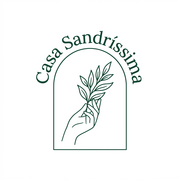
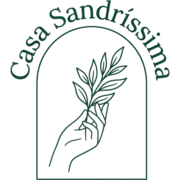
style: update branding assets and add navigation
Updated favicon and touch icons to reflect current branding.
Included MobileBottomNav component in the main application structure.

Changed region(s): [[0.0556, 0.0, 0.9444, 1.0]]

diff --git a/src/components/HomeView.tsx b/src/components/HomeView.tsx
@@ -153,32 +153,33 @@ export default function HomeView({ setActiveTab, onSelectWorkshop }: HomeViewPro
     >
       
       {/* Hero / Banner Section */}
-      <section className="relative overflow-hidden bg-white/80 backdrop-blur-md rounded-3xl p-8 md:p-16 border border-emerald-100/80 shadow-sm hover:shadow-md transition-shadow" id="hero-section">
+      <section className="relative overflow-hidden bg-white/80 backdrop-blur-md rounded-3xl p-5 sm:p-8 md:p-14 lg:p-16 border border-emerald-100/80 shadow-sm hover:shadow-md transition-shadow" id="hero-section">
         <div className="absolute inset-0 bg-[radial-gradient(ellipse_at_top_right,_var(--tw-gradient-stops))] from-emerald-100/35 via-transparent to-transparent opacity-70"></div>
         
-        <div className="relative z-10 grid grid-cols-1 lg:grid-cols-12 gap-10 lg:gap-12 xl:gap-16 items-center">
-          <div className="lg:col-span-7 space-y-6 lg:pr-4">
+        <div className="relative z-10 grid grid-cols-1 lg:grid-cols-12 gap-8 lg:gap-12 xl:gap-16 items-center">
+          <div className="lg:col-span-7 space-y-5 sm:space-y-6 lg:pr-4 text-left">
             <div className="inline-flex items-center gap-2 px-3 py-1 bg-emerald-100/60 rounded-full border border-emerald-200">
               <Sprout className="h-4 w-4 text-emerald-700 animate-pulse" />
               <span className="text-xs font-semibold text-emerald-800 tracking-wide uppercase">Seja bem-vindo</span>
             </div>
             
-            <h1 className="font-sans font-extrabold text-3xl md:text-5xl leading-tight text-stone-900 tracking-tight" id="hero-tagline">
-              Imensidão de uma <span className="text-emerald-600 border-b-2 border-emerald-200">semente</span>. <br />
+            <h1 className="font-sans font-extrabold text-2xl sm:text-4xl md:text-5xl leading-tight text-stone-900 tracking-tight" id="hero-tagline">
+              Imensidão de uma <span className="text-emerald-600 border-b-2 border-emerald-200">semente</span>. <br className="hidden sm:inline" />
               Semear dignidade, cultivar inclusão, florescer em comunidade.
             </h1>
             
-            <p className="text-stone-600 text-base md:text-lg leading-relaxed max-w-xl">
+            <p className="text-stone-600 text-sm sm:text-base md:text-lg leading-relaxed max-w-xl font-medium">
               A <strong>Casa Sandríssima</strong> é uma organização comunitária que busca melhorar a qualidade de vida de famílias em situação de risco e vulnerabilidade no bairro Jardim Ipanema em Franca - SP. Apoiamos a inclusão e transformação por meio da educação popular.
             </p>
 
-            <div className="flex flex-wrap gap-4 pt-2">
+            <div className="flex flex-col sm:flex-row flex-wrap gap-2.5 sm:gap-4 pt-2 w-full">
               <TactileButton 
                 id="hero-donate-btn"
                 variant="primary"
                 size="md"
                 onClick={() => setActiveTab('doacoes')}
                 icon={<Heart className="h-4 w-4 fill-white" />}
+                className="w-full sm:w-auto"
               >
                 Quero Apoiar a Causa
               </TactileButton>
@@ -190,6 +191,7 @@ export default function HomeView({ setActiveTab, onSelectWorkshop }: HomeViewPro
                 onClick={() => setActiveTab('projetos')}
                 icon={<ChevronRight className="h-4 w-4 text-stone-500" />}
                 iconPosition="right"
+                className="w-full sm:w-auto"
               >
                 Ver Projetos
               </TactileButton>
@@ -200,6 +202,7 @@ export default function HomeView({ setActiveTab, onSelectWorkshop }: HomeViewPro
                 size="md"
                 onClick={() => setActiveTab('galeria')}
                 icon={<ImageIcon className="h-4 w-4 text-emerald-700" />}
+                className="w-full sm:w-auto"
               >
                 Galeria de Fotos
               </TactileButton>
@@ -208,7 +211,7 @@ export default function HomeView({ setActiveTab, onSelectWorkshop }: HomeViewPro
 
           <div className="lg:col-span-5 flex flex-col items-center justify-center w-full">
             {/* Visual Centered Logo Stage with Harmonious Orbital Constellation */}
-            <div className="relative w-80 h-80 sm:w-[360px] sm:h-[360px] md:w-[390px] md:h-[390px] lg:w-[410px] lg:h-[410px] flex items-center justify-center my-4 sm:my-0 select-none" id="hero-visual-graphic">
+            <div className="relative w-64 h-64 sm:w-80 sm:h-80 md:w-[360px] md:h-[360px] lg:w-[410px] lg:h-[410px] max-w-full flex items-center justify-center my-2 sm:my-0 select-none" id="hero-visual-graphic">
               
               {/* Centered Soft Radial Halo */}
               <div className="absolute inset-2 sm:inset-3 rounded-full bg-radial from-emerald-100/75 via-emerald-50/30 to-transparent pointer-events-none" />
@@ -228,7 +231,7 @@ export default function HomeView({ setActiveTab, onSelectWorkshop }: HomeViewPro
                 referrerPolicy="no-referrer"
               />
               
-              {/* Symmetrically Distributed Orbital Course Pills (5-point harmonious constellation) */}
+              {/* Symmetrically Distributed Orbital Course Pills (Desktop/Tablet) */}
               {/* 1. Karatê Grátis - Top Center Apex (12 o'clock) */}
               <motion.button
                 id="hero-orbit-karate"
@@ -245,14 +248,14 @@ export default function HomeView({ setActiveTab, onSelectWorkshop }: HomeViewPro
                 whileHover={{ scale: 1.08, y: -7 }}
                 whileTap={{ scale: 0.95 }}
                 title="Ver detalhes da oficina de Karatê"
-                className="absolute -top-2 sm:-top-3 left-1/2 -translate-x-1/2 z-20 bg-white/95 backdrop-blur-xs py-1.5 px-3.5 sm:px-4 rounded-full shadow-md hover:shadow-orange-200/80 text-[11px] sm:text-xs font-bold text-stone-800 border border-orange-200/90 flex items-center gap-1.5 cursor-pointer transition-colors hover:border-orange-400 group whitespace-nowrap"
+                className="hidden sm:flex absolute -top-2 sm:-top-3 left-1/2 -translate-x-1/2 z-20 bg-white/95 backdrop-blur-xs py-1.5 px-3.5 sm:px-4 rounded-full shadow-md hover:shadow-orange-200/80 text-[11px] sm:text-xs font-bold text-stone-800 border border-orange-200/90 items-center gap-1.5 cursor-pointer transition-colors hover:border-orange-400 group whitespace-nowrap"
               >
                 <span className="text-xs sm:text-sm group-hover:scale-125 transition-transform">🥋</span>
                 <span>Karatê Grátis</span>
                 <span className="w-1.5 h-1.5 rounded-full bg-orange-500 animate-ping ml-0.5 hidden sm:inline-block" />
               </motion.button>
 
-              {/* 2. Inglês - Upper Right (approx. 2 o'clock) */}
+              {/* 2. Inglês - Upper Right */}
               <motion.button
                 id="hero-orbit-english"
                 onClick={() => handleOpenWorkshop('english')}
@@ -270,13 +273,13 @@ export default function HomeView({ setActiveTab, onSelectWorkshop }: HomeViewPro
                 whileHover={{ scale: 1.08, y: -7 }}
                 whileTap={{ scale: 0.95 }}
                 title="Ver detalhes do curso de Inglês"
-                className="absolute top-[20%] -right-2 sm:-right-3 md:-right-5 z-20 bg-white/95 backdrop-blur-xs py-1.5 px-3.5 sm:px-4 rounded-full shadow-md hover:shadow-blue-200/80 text-[11px] sm:text-xs font-bold text-stone-800 border border-blue-200/90 flex items-center gap-1.5 cursor-pointer transition-colors hover:border-blue-400 group whitespace-nowrap"
+                className="hidden sm:flex absolute top-[20%] -right-2 sm:-right-3 md:-right-5 z-20 bg-white/95 backdrop-blur-xs py-1.5 px-3.5 sm:px-4 rounded-full shadow-md hover:shadow-blue-200/80 text-[11px] sm:text-xs font-bold text-stone-800 border border-blue-200/90 items-center gap-1.5 cursor-pointer transition-colors hover:border-blue-400 group whitespace-nowrap"
               >
                 <span className="text-xs sm:text-sm group-hover:scale-125 transition-transform">🇬🇧</span>
                 <span>Inglês</span>
               </motion.button>
 
-              {/* 3. Costura - Upper Left (approx. 10 o'clock, mirroring Inglês) */}
+              {/* 3. Costura - Upper Left */}
               <motion.button
                 id="hero-orbit-sewing"
                 onClick={() => handleOpenWorkshop('sewing')}
@@ -294,13 +297,13 @@ export default function HomeView({ setActiveTab, onSelectWorkshop }: HomeViewPro
                 whileHover={{ scale: 1.08, y: -7 }}
                 whileTap={{ scale: 0.95 }}
                 title="Ver detalhes da oficina de Costura"
-                className="absolute top-[20%] -left-2 sm:-left-3 md:-left-5 z-20 bg-white/95 backdrop-blur-xs py-1.5 px-3.5 sm:px-4 rounded-full shadow-md hover:shadow-purple-200/80 text-[11px] sm:text-xs font-bold text-stone-800 border border-purple-200/90 flex items-center gap-1.5 cursor-pointer transition-colors hover:border-purple-400 group whitespace-nowrap"
+                className="hidden sm:flex absolute top-[20%] -left-2 sm:-left-3 md:-left-5 z-20 bg-white/95 backdrop-blur-xs py-1.5 px-3.5 sm:px-4 rounded-full shadow-md hover:shadow-purple-200/80 text-[11px] sm:text-xs font-bold text-stone-800 border border-purple-200/90 items-center gap-1.5 cursor-pointer transition-colors hover:border-purple-400 group whitespace-nowrap"
               >
                 <span className="text-xs sm:text-sm group-hover:scale-125 transition-transform">🧵</span>
                 <span>Costura</span>
               </motion.button>
 
-              {/* 4. Pilates - Lower Right (approx. 4:30 o'clock) */}
+              {/* 4. Pilates - Lower Right */}
               <motion.button
                 id="hero-orbit-pilates"
                 onClick={() => handleOpenWorkshop('pilates')}
@@ -317,13 +320,13 @@ export default function HomeView({ setActiveTab, onSelectWorkshop }: HomeViewPro
                 whileHover={{ scale: 1.08, y: -7 }}
                 whileTap={{ scale: 0.95 }}
                 title="Ver detalhes das aulas de Pilates"
-                className="absolute bottom-[10%] -right-1 sm:-right-2 md:-right-4 z-20 bg-white/95 backdrop-blur-xs py-1.5 px-3.5 sm:px-4 rounded-full shadow-md hover:shadow-teal-200/80 text-[11px] sm:text-xs font-bold text-stone-800 border border-teal-200/90 flex items-center gap-1.5 cursor-pointer transition-colors hover:border-teal-400 group whitespace-nowrap"
+                className="hidden sm:flex absolute bottom-[10%] -right-1 sm:-right-2 md:-right-4 z-20 bg-white/95 backdrop-blur-xs py-1.5 px-3.5 sm:px-4 rounded-full shadow-md hover:shadow-teal-200/80 text-[11px] sm:text-xs font-bold text-stone-800 border border-teal-200/90 items-center gap-1.5 cursor-pointer transition-colors hover:border-teal-400 group whitespace-nowrap"
               >
                 <span className="text-xs sm:text-sm group-hover:scale-125 transition-transform">🧘</span>
                 <span>Pilates</span>
               </motion.button>
 
-              {/* 5. Bordados - Lower Left (approx. 7:30 o'clock, mirroring Pilates) */}
+              {/* 5. Bordados - Lower Left */}
               <motion.button
                 id="hero-orbit-embroidery"
                 onClick={() => handleOpenWorkshop('embroidery')}
@@ -340,24 +343,52 @@ export default function HomeView({ setActiveTab, onSelectWorkshop }: HomeViewPro
                 whileHover={{ scale: 1.08, y: -7 }}
                 whileTap={{ scale: 0.95 }}
                 title="Ver detalhes da oficina de Bordados"
-                className="absolute bottom-[10%] -left-1 sm:-left-2 md:-left-4 z-20 bg-white/95 backdrop-blur-xs py-1.5 px-3.5 sm:px-4 rounded-full shadow-md hover:shadow-rose-200/80 text-[11px] sm:text-xs font-bold text-stone-800 border border-rose-200/90 flex items-center gap-1.5 cursor-pointer transition-colors hover:border-rose-400 group whitespace-nowrap"
+                className="hidden sm:flex absolute bottom-[10%] -left-1 sm:-left-2 md:-left-4 z-20 bg-white/95 backdrop-blur-xs py-1.5 px-3.5 sm:px-4 rounded-full shadow-md hover:shadow-rose-200/80 text-[11px] sm:text-xs font-bold text-stone-800 border border-rose-200/90 items-center gap-1.5 cursor-pointer transition-colors hover:border-rose-400 group whitespace-nowrap"
               >
                 <span className="text-xs sm:text-sm group-hover:scale-125 transition-transform">🪡</span>
                 <span>Bordados</span>
               </motion.button>
             </div>
 
-            {/* Mobile quick scroll pill helper */}
-            <div className="flex sm:hidden items-center justify-center gap-1.5 text-[11px] text-stone-500 font-medium mt-3 bg-stone-100/80 px-3 py-1 rounded-full">
-              <span>Toque em qualquer curso para ver a ementa</span>
-              <ChevronRight className="h-3 w-3 text-emerald-600" />
+            {/* Dedicated Mobile Workshop Quick Chips (Touch-friendly & strictly within bounds) */}
+            <div className="sm:hidden w-full space-y-2 mt-4" id="hero-mobile-workshops-selector">
+              <div className="flex items-center justify-between px-1 text-[11px] font-bold uppercase tracking-wider text-stone-500">
+                <span>Oficinas Gratuitas</span>
+                <span className="text-emerald-700">Toque para ver</span>
+              </div>
+              <div className="grid grid-cols-2 gap-2">
+                {[
+                  { id: 'karate', label: 'Karatê', emoji: '🥋', border: 'border-orange-200', bg: 'hover:bg-orange-50' },
+                  { id: 'english', label: 'Inglês', emoji: '🇬🇧', border: 'border-blue-200', bg: 'hover:bg-blue-50' },
+                  { id: 'sewing', label: 'Costura', emoji: '🧵', border: 'border-purple-200', bg: 'hover:bg-purple-50' },
+                  { id: 'pilates', label: 'Pilates', emoji: '🧘', border: 'border-teal-200', bg: 'hover:bg-teal-50' },
+                ].map((item) => (
+                  <button
+                    key={item.id}
+                    type="button"
+                    onClick={() => handleOpenWorkshop(item.id)}
+                    className={`flex items-center justify-center gap-2 py-2.5 px-3 bg-white border ${item.border} ${item.bg} rounded-xl shadow-xs text-xs font-bold text-stone-800 active:scale-95 transition-all cursor-pointer`}
+                  >
+                    <span>{item.emoji}</span>
+                    <span>{item.label}</span>
+                  </button>
+                ))}
+                <button
+                  type="button"
+                  onClick={() => handleOpenWorkshop('embroidery')}
+                  className="col-span-2 flex items-center justify-center gap-2 py-2.5 px-3 bg-white border border-rose-200 hover:bg-rose-50 rounded-xl shadow-xs text-xs font-bold text-stone-800 active:scale-95 transition-all cursor-pointer"
+                >
+                  <span>🪡</span>
+                  <span>Bordados Livres & Arteterapia</span>
+                </button>
+              </div>
             </div>
           </div>
         </div>
       </section>
 
       {/* Metrics Section */}
-      <section className="bg-stone-900 rounded-3xl p-8 text-white grid grid-cols-1 md:grid-cols-3 gap-6 text-center border border-stone-850" id="impact-metrics">
+      <section className="bg-stone-900 rounded-3xl p-6 sm:p-8 text-white grid grid-cols-1 sm:grid-cols-3 gap-6 text-center border border-stone-850" id="impact-metrics">
         {stats.map((stat, idx) => (
           <div key={idx} className="space-y-1.5">
             <span className="block font-mono text-3xl md:text-4xl font-black text-emerald-400 tracking-tight">

diff --git a/src/components/MobileBottomNav.tsx b/src/components/MobileBottomNav.tsx
@@ -1,0 +1,107 @@
+import React from 'react';
+import { 
+  Home, 
+  Users, 
+  FolderHeart, 
+  ImageIcon, 
+  HeartHandshake, 
+  GraduationCap 
+} from 'lucide-react';
+import { ActiveTab } from '../types';
+
+interface MobileBottomNavProps {
+  activeTab: ActiveTab;
+  setActiveTab: (tab: ActiveTab) => void;
+}
+
+export default function MobileBottomNav({ activeTab, setActiveTab }: MobileBottomNavProps) {
+  const navItems = [
+    { id: 'home' as ActiveTab, label: 'Início', icon: Home },
+    { id: 'associacao' as ActiveTab, label: 'A ONG', icon: Users },
+    { id: 'projetos' as ActiveTab, label: 'Oficinas', icon: FolderHeart },
+    { id: 'galeria' as ActiveTab, label: 'Galeria', icon: ImageIcon },
+    { id: 'doacoes' as ActiveTab, label: 'Doar', icon: HeartHandshake, highlight: true },
+    { id: 'area_associado' as ActiveTab, label: 'Aluno/SGE', icon: GraduationCap },
+  ];
+
+  const handleSelectTab = (tabId: ActiveTab) => {
+    setActiveTab(tabId);
+    window.scrollTo({ top: 0, behavior: 'smooth' });
+  };
+
+  return (
+    <nav 
+      id="mobile-bottom-navigation-bar" 
+      aria-label="Navegação inferior mobile"
+      className="md:hidden fixed bottom-0 left-0 right-0 z-40 bg-white/95 backdrop-blur-xl border-t border-emerald-100 shadow-[0_-4px_20px_rgba(0,0,0,0.07)] px-2 pt-2 pb-[max(0.6rem,env(safe-area-inset-bottom))] transition-all"
+    >
+      <div className="flex items-center justify-around max-w-lg mx-auto">
+        {navItems.map((item) => {
+          const Icon = item.icon;
+          const isActive = activeTab === item.id;
+
+          if (item.highlight) {
+            return (
+              <button
+                key={item.id}
+                id={`mobile-dock-btn-${item.id}`}
+                onClick={() => handleSelectTab(item.id)}
+                className="flex flex-col items-center justify-center -mt-3.5 group cursor-pointer focus:outline-none"
+                aria-current={isActive ? 'page' : undefined}
+              >
+                <div 
+                  className={`w-11 h-11 rounded-full flex items-center justify-center shadow-md transition-all duration-200 group-active:scale-90 ${
+                    isActive 
+                      ? 'bg-gradient-to-tr from-emerald-600 to-teal-500 text-white ring-3 ring-emerald-300/40 shadow-emerald-600/30' 
+                      : 'bg-emerald-600 hover:bg-emerald-700 text-white shadow-emerald-600/20'
+                  }`}
+                >
+                  <Icon className="h-5 w-5" />
+                </div>
+                <span 
+                  className={`text-[9.5px] tracking-tight font-extrabold mt-0.5 transition-colors ${
+                    isActive ? 'text-emerald-700' : 'text-stone-600 group-hover:text-emerald-700'
+                  }`}
+                >
+                  {item.label}
+                </span>
+              </button>
+            );
+          }
+
+          return (
+            <button
+              key={item.id}
+              id={`mobile-dock-btn-${item.id}`}
+              onClick={() => handleSelectTab(item.id)}
+              className={`flex flex-col items-center justify-center py-1 px-1.5 min-w-[50px] rounded-xl transition-all duration-150 cursor-pointer group focus:outline-none ${
+                isActive 
+                  ? 'text-emerald-700 font-black' 
+                  : 'text-stone-500 hover:text-stone-800'
+              }`}
+              aria-current={isActive ? 'page' : undefined}
+            >
+              <div className="relative">
+                <Icon 
+                  className={`h-5 w-5 transition-transform duration-150 group-active:scale-90 ${
+                    isActive ? 'text-emerald-600 stroke-[2.5]' : 'stroke-[1.8]'
+                  }`} 
+                />
+                {isActive && (
+                  <span className="absolute -bottom-1 left-1/2 -translate-x-1/2 w-1 h-1 bg-emerald-600 rounded-full" />
+                )}
+              </div>
+              <span 
+                className={`text-[10px] tracking-tight leading-none mt-1 transition-all ${
+                  isActive ? 'font-black text-emerald-800' : 'font-medium'
+                }`}
+              >
+                {item.label}
+              </span>
+            </button>
+          );
+        })}
+      </div>
+    </nav>
+  );
+}

diff --git a/src/App.tsx b/src/App.tsx
@@ -16,6 +16,7 @@ import PencilLoader from './components/PencilLoader';
 import { ShapeOverlaysTransition, ShapeOverlaysHandle } from './components/ShapeOverlaysTransition';
 import SiteAmbientBackground from './components/SiteAmbientBackground';
 import DemoModeBanner from './components/DemoModeBanner';
+import MobileBottomNav from './components/MobileBottomNav';
 
 export default function App() {
   const [activeTab, setActiveTab] = useState<ActiveTab>('home');
@@ -197,7 +198,7 @@ export default function App() {
       </header>
 
       {/* Screen Frame Content Area */}
-      <main className="flex-grow max-w-7xl mx-auto w-full px-4 sm:px-6 lg:px-8 py-6 mb-12 relative z-10">
+      <main className="flex-grow max-w-7xl mx-auto w-full px-3 sm:px-6 lg:px-8 py-4 sm:py-6 mb-16 md:mb-12 relative z-10">
         <div id="active-tab-container">
           {renderActiveView()}
         </div>
@@ -207,6 +208,12 @@ export default function App() {
       <Footer 
         setActiveTab={handleTabChange} 
         onOpenLoginModal={handleOpenLoginModal} 
+      />
+
+      {/* Fixed Ergonomic Mobile Dock Navigation Bar */}
+      <MobileBottomNav 
+        activeTab={activeTab} 
+        setActiveTab={handleTabChange} 
       />
 
       {/* Social Login Modal Accessible from anywhere */}

diff --git a/src/components/GaleriaView.tsx b/src/components/GaleriaView.tsx
@@ -382,7 +382,7 @@ export default function GaleriaView({ setActiveTab, onOpenLoginModal }: GaleriaV
       </section>
 
       {/* Categories Filter Tabs */}
-      <section className="flex flex-wrap items-center justify-center gap-2" id="galeria-category-filters">
+      <section className="flex overflow-x-auto no-scrollbar sm:flex-wrap items-center sm:justify-center gap-2 py-1 px-1 -mx-2 sm:mx-0" id="galeria-category-filters">
         {categories.map((cat) => (
           <button
             key={cat.id}
@@ -391,7 +391,7 @@ export default function GaleriaView({ setActiveTab, onOpenLoginModal }: GaleriaV
               if (cat.id === selectedCategory) return;
               setSelectedCategory(cat.id);
             }}
-            className={`px-4 py-2 rounded-xl text-xs sm:text-sm font-bold transition-all cursor-pointer flex items-center gap-1.5 ${
+            className={`px-3.5 sm:px-4 py-2 rounded-xl text-xs sm:text-sm font-bold transition-all cursor-pointer shrink-0 flex items-center gap-1.5 touch-manipulation active:scale-95 ${
               selectedCategory === cat.id
                 ? 'bg-emerald-600 text-white shadow-md shadow-emerald-200/50'
                 : 'bg-white text-stone-600 border border-stone-200 hover:bg-stone-50'

diff --git a/src/components/Footer.tsx b/src/components/Footer.tsx
@@ -21,7 +21,7 @@ export default function Footer({ setActiveTab, onOpenLoginModal }: FooterProps) 
     <footer className="bg-stone-900 text-stone-400 border-t border-stone-800 relative z-20 shadow-2xl" id="main-footer">
       {/* Brand Accent Top Stripe */}
       <div className="h-1 w-full bg-gradient-to-r from-emerald-600 via-lime-400 via-40% to-teal-700" />
-      <div className="max-w-7xl mx-auto px-4 sm:px-6 lg:px-8 py-12">
+      <div className="max-w-7xl mx-auto px-4 sm:px-6 lg:px-8 py-10 pb-28 md:py-12">
         <div className="grid grid-cols-1 md:grid-cols-4 gap-8">
           
           {/* Logo Section */}
